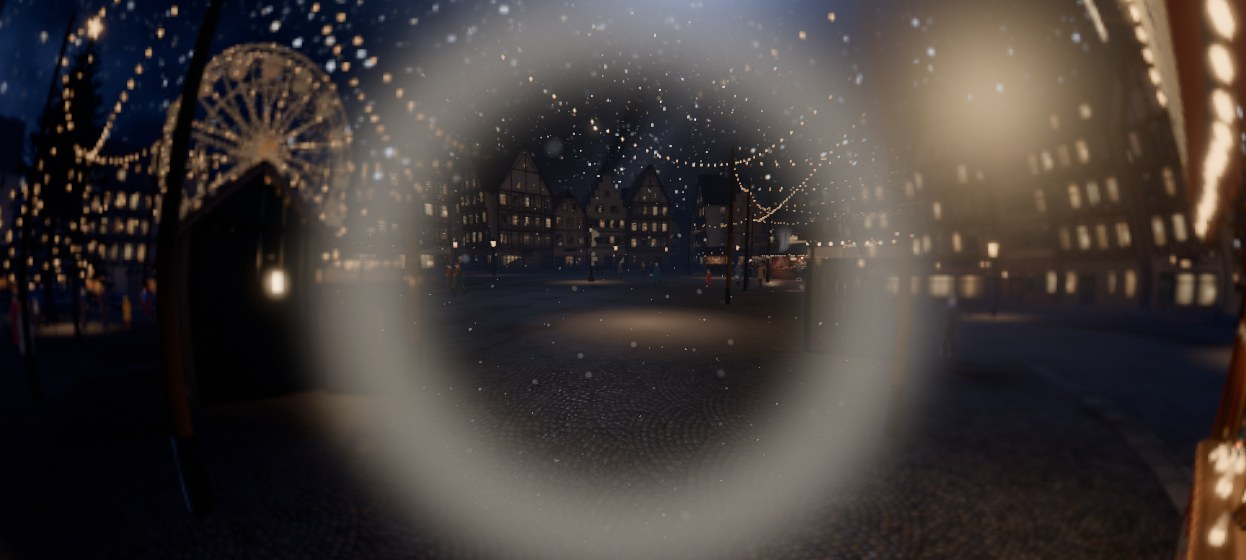
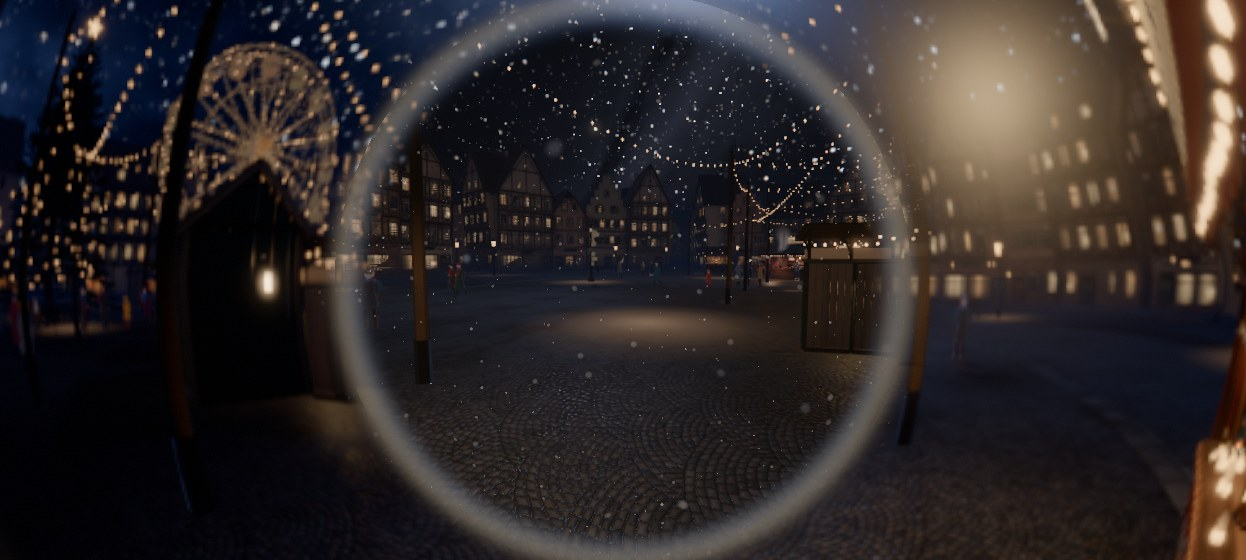
Round 9 work in progress
Claude-Session: https://claude.ai/code/session_01KJfU3a1ZNRu682uWq35pyk

Changed region(s): [[0.1525, 0.0, 0.8234, 1.0], [0.7319, 0.0911, 0.7624, 0.1214]]

diff --git a/site/src/shop/divePass.js b/site/src/shop/divePass.js
@@ -37,7 +37,7 @@ vec3 warped( vec2 uv ) {
   float band = smoothstep( 0.78, 0.98, r ) * uWarp;
   q = mix( q, q * ( 1.0 - 0.55 * band ) , band );
   // the glass splits the colours a hair at the edge
-  float ca = 0.0022 * uWarp * r2;
+  float ca = 0.0014 * uWarp * r2;
   vec2 s = q / vec2( uAspect, 1.0 ) + 0.5;
   vec2 d = normalize( p + 1e-5 ) * ca / vec2( uAspect, 1.0 );
   vec3 c;

diff --git a/review/round-9/engineer/NOTES.md b/review/round-9/engineer/NOTES.md
@@ -1,7 +1,91 @@
 # Engineer, round 9: the ornament shop's three moments (ADR 0004 revision)
 
-Draft in progress (saved early in case the machine restarts). Results are filled in below as the runs finish.
+Mac: "No need to be interactive in everything, but the one that interactive must be wow. not slop." This round
+the shop has three moments and nothing else to click. The carpenter's and vendor's round-9 shop files now on disk
+(`stall_schmuck*.glb`, `prop_schmuck_*.glb`) are the ones every run below used.
 
-Progress log (machine-restart safety):
-- 11:xx build OK (npm ci && npm run build). Smoke `--only schmuck` 37/37 on the lite market (smoke_shop.log). Moments section running.
-- Moments section first run 6/6 (old framing). Polishing: Schwibbogen hold reframed (all candles in frame, first flame after the camera stands behind the arch), smoke wisp replaces puff column, harmonica glow warmer/stronger, dive pass iris crossfade + glass rim + glitter. Moments test now holds the live loop (frozen) so software GL is not starved; adds a per-beat check.
+## What changed
+
+Code (all in `site/`):
+
+- `src/actions/items/schmuck.js`: the shop's handler. It now only routes the three moments: `act_orn_harmonica_*`,
+  `act_orn_mirrorball` and `act_orn_schwibbogen`/`act_orn_candle_*`. Every round-8 ornament interaction is gone
+  (bauble spin, star, nutcracker, smoker puff, hang-on-tree, pickle reward), and so are their smoke checks and test
+  hooks (`baubleNames`, `hangableNames`, `ornamentNote`). Any old ornament left in a set is decoration
+  (`clickable = false`). The stop bar shows three buttons: Light the Schwibbogen, Play the glass harmonica and
+  Look into the mirror ball.
+- `src/shop/` (one module per moment, plus the engine's sparkle):
+  - `schwibbogen.js`, the hero moment. The camera glides to the arch, comes round it and stands behind the candles,
+    looking out over the market. As it comes round, the town's lit rooms go quiet. Then the candles catch one by one
+    from the outside in, using the vendor's `order`. Each flame flares, flickers and has its own glow sprite. With
+    each flame a share of the town's windows turns warm, spreading outward from the market, and one more voice
+    joins a low G minor chord. After the last flame, a wave of light runs out from the shop: the stall bulbs and
+    lamps flare in turn by distance, and the bloom swells and settles. Escape or a tap steps back round the arch
+    (the candles keep burning). Clicking the arch again lets everything fade back.
+  - `townWindows.js`, the town waking. The architect's `window_warm` atlas has dark cells (10, 12, 14) and lit cells
+    (0-8). Each window gets a vertex rank from its distance to the market centre. Dark windows switch to a lit
+    room as the wake front passes them. **New this pass:** rooms that are lit by default go quiet (20 %) while the
+    town waits and come back as the front passes. Without that, the town before and after looked almost the same,
+    because so many windows are lit by default. Compare `schwib_1_town_dark.jpg` with `schwib_3_light_wave.jpg`.
+  - `lightWave.js`, the wave of light. A shader patch on every bulb material scales its glow by the wave at that
+    point, so a string of lights brightens bulb by bulb. The lamps follow the same curve on the CPU, and the bloom
+    swells by up to about 1.9x and then settles.
+  - `harmonica.js` + `audio/glass.js`, the glass harmonica. The twelve baubles are tuned to the first twelve notes
+    of "Lanterns After Closing" (music/score/LEADSHEET.md, head in G minor: D Bb A | G A C | Eb D F# | G, F Ab), two
+    octaves up. A drag that starts on the row, by mouse or finger, claims the pointer, so the head does not turn,
+    and rings every bauble it crosses. Velocity comes from drag speed. Each bauble swings on its ribbon and glows
+    on its note. After 3.2 s idle at the shop, the next bauble of the phrase glows faintly. Playing the phrase
+    through brings a ripple of light. The button leans the camera in and plays the phrase in its own rhythm. The
+    tone is a sine plus inharmonic partials (2.32, 4.25, 6.63) with a slow attack, a long decay and a slow-beating
+    twin, run through a cross-fed feedback-delay room. **New this pass:** the vendor's clear shells (`vendor_glass`,
+    opaque white in the file) are made see-through with premultiplied Fresnel blending, so the mercury bauble
+    inside and the note's glow show through. The glow is warmer and stronger (amber, larger halo).
+  - `dive.js` + `divePass.js`, the reflection dive. At the tap, a CubeCamera renders the market once from the
+    ball's centre (256 px lite, 512 px full). The ball's glass becomes a mercury mirror with a clear coat (Fresnel
+    at the rim). The camera eases along `cam_dive_approach` to `cam_dive` while the lens narrows, until the
+    reflection fills the view. Then the inside opens from the middle outward through a lens-like iris, with a thin
+    silvered edge that bends the picture as it passes (**new**; it was a grey double exposure). Inside the glass
+    the view is a barrel-warped fisheye with a mirrored band at the rim, a little chromatic split, a hushed warm
+    silver grade, the ball's own highlight streak, and four layers of silver glitter drifting like a snow globe
+    (near flecks large and soft, far ones small and sharp, each flashing as it turns). The sound goes muffled. It
+    holds, then a silvered veil closes in from the rim and the camera eases back out. Escape or a tap ends it at
+    any point.
+  - `sparkle.js`, the shop's sparkle. `mirror_0`/`mirror_foxed` is a planar reflector (Reflector.js's oblique
+    mirrored camera), shown through the foxing: rough spots reflect less. It is 640 px and drawn every frame near
+    the shop on the full market, 256 px every 20th frame on the lite one. `tinsel_*` gets a view-dependent glint
+    shader: 3 mm flecks of foil, each tilted its own way, flash when they mirror the shop lamp into the eye.
+    `rot_pyramid` turns about Y (from the vendor's `{"axis":"y"}`), and the pyramid's flames flicker.
+    **New this pass:** `fx_smoke_1` is one thin curling wisp that slows, widens and thins as it rises, drawn from
+    ragged soft sprites. It replaces a column of evenly spaced round puffs that read as a dotted line in the
+    Schwibbogen view.
+- Schwibbogen framing (**new**): the view behind the arch now keeps all seven flames in the lower third. The
+  camera stands 0.72-1.05 m behind the arch depending on screen width, the eye is 8.5 cm above the tips, and the
+  lens widens to 62° on portrait screens. During the wave the camera draws back a little and lifts its eyes, where
+  before it rose and lost the candles. The first flame now comes after the camera stands behind the arch, so the
+  visitor sees the quiet town first.
+- Loading: deco stalls are scenery and load only their `.lite.glb` on both markets (`layout.js` `liteOnly`), so
+  they never stream. The smoke test checks this.
+- Small screens: the stop bar starts folded at the ornament shop, as it does at an open cabinet (round-8 judge
+  note). It is 50 px tall in a 640 px view.
+- Reduced motion: the camera cuts instead of gliding, the candles light in about 2 s with no flicker, the light
+  rises everywhere at once instead of travelling, the baubles glow but do not swing, and the dive cuts in and out
+  with a short hold and no drift.
+
+Tests: `tests/smoke.mjs`
+
+- `schmuck` (lite, 960 px): stroll stop, signpost arm, folded bar, three buttons, round-8 interactions gone,
+  decoration not clickable, harmonica tuning, mouse brush order, no head turn, glow and swing, velocity, taps in
+  order plus the idle hint, touch drag, the tune's answer, the leaned-in auto phrase, all Schwibbogen beats
+  (outside-in order, windows, chord, wave, view, Escape, fade back including the town's hush), every dive phase
+  (cube env, approach, inside, Escape, tap), and the sparkle (mirror, tinsel, pyramid, smoke).
+- `moments` (full, 1280 px): streams the shop at full detail and takes a screenshot sequence of each moment.
+  **New:** the live loop is held for the whole section, and each snapshot draws one frame. Before this, software
+  GL drew the full market every animation frame alongside the waits and the run stalled for over 25 minutes. A
+  new check confirms the screenshots catch each beat (town quiet over unlit candles, waking, the wave's bloom at
+  its height, settled).
+- `phone`: the reduced-motion versions of the three moments.
+- `stroll`: the full market's first load must now stay under 9 MB ("near 8 MB"; it was under 19.7 MB).
+
+## Results
+
+(filled in below after the final runs)
